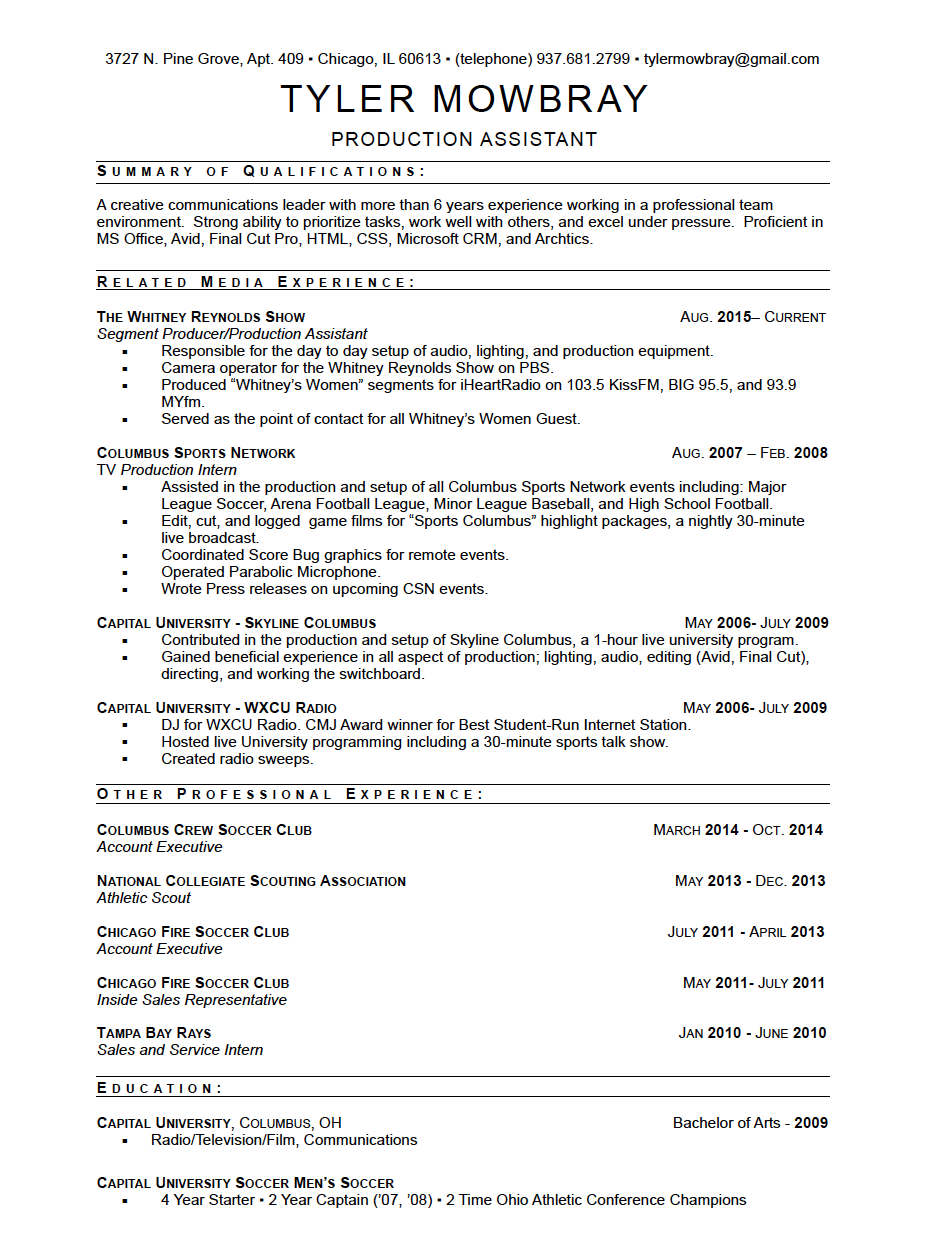
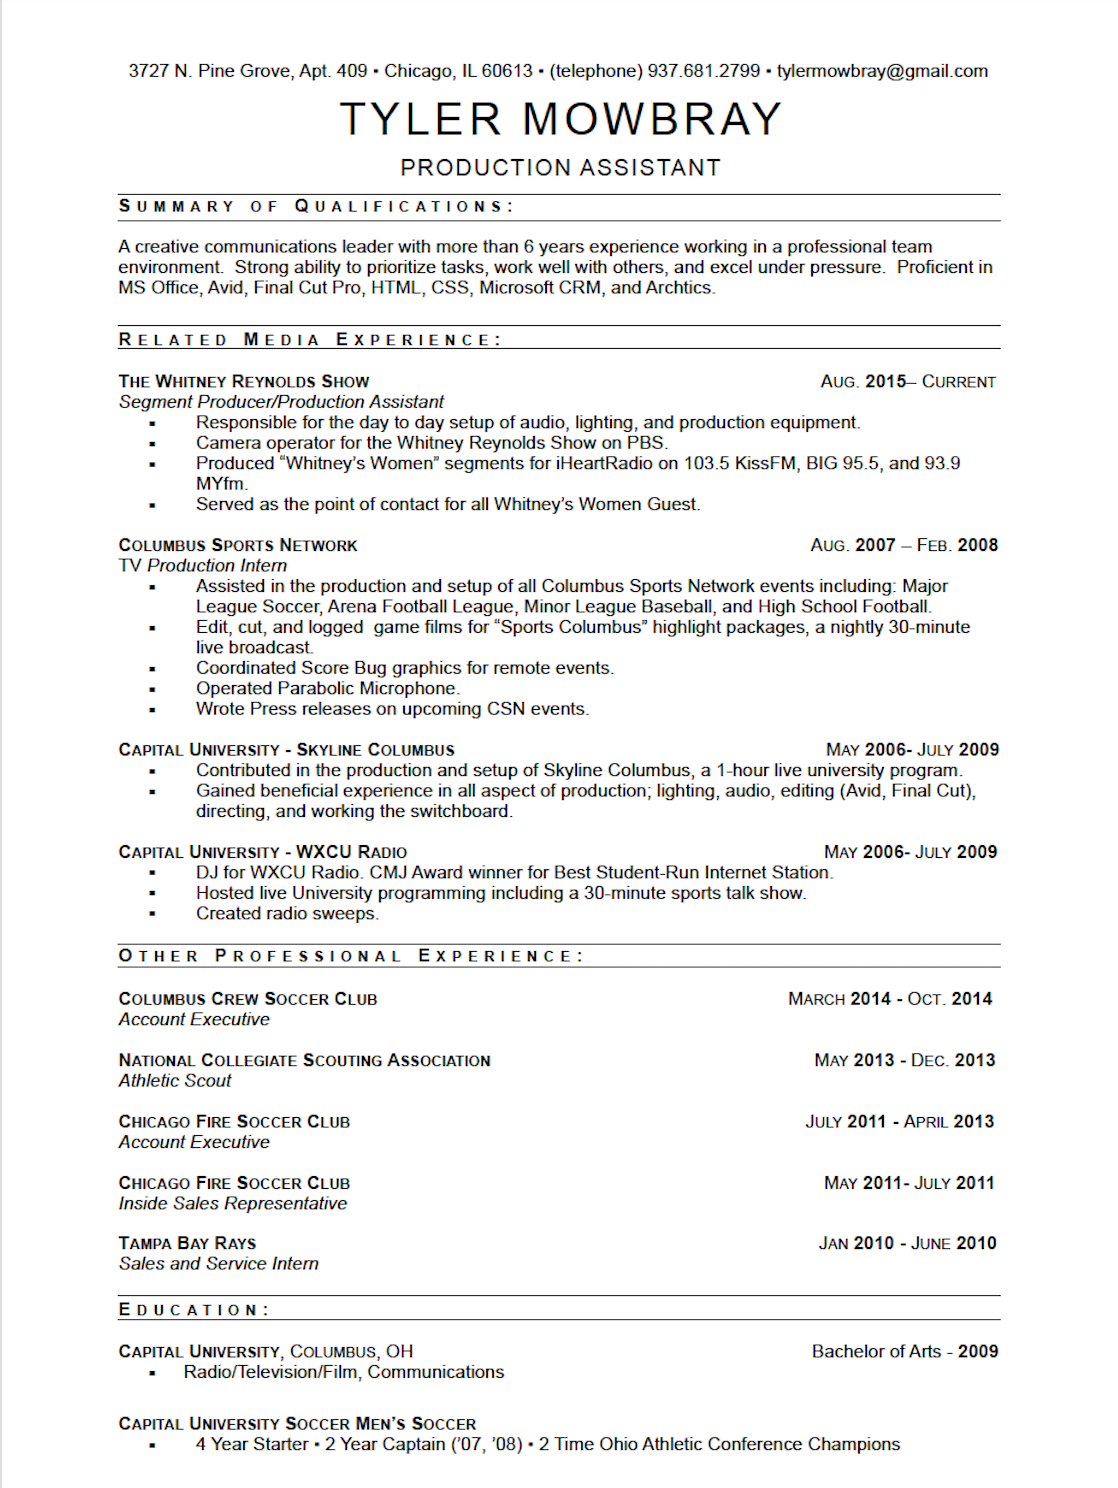
edits

Changed region(s): [[0.0935, 0.0307, 0.9043, 0.9822], [0.7172, 0.706, 0.9043, 0.7981], [0.686, 0.6446, 0.9043, 0.6753]]

diff --git a/index.html b/index.html
@@ -172,7 +172,7 @@
 
 					<li><div class="box">
 							<div class="he-wrap tpl2">
-							<a href="#"><img src="web/images/mowbrayresume.jpg" alt=""/></a>
+							<a href="#"><img src="web/images/mowbrayresume.jpg" height="850" width="655" alt=""></a>
 
 						</div>
 					</li>
